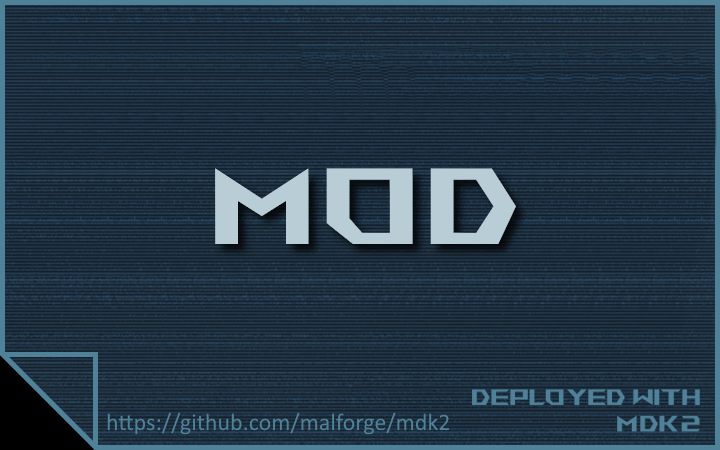
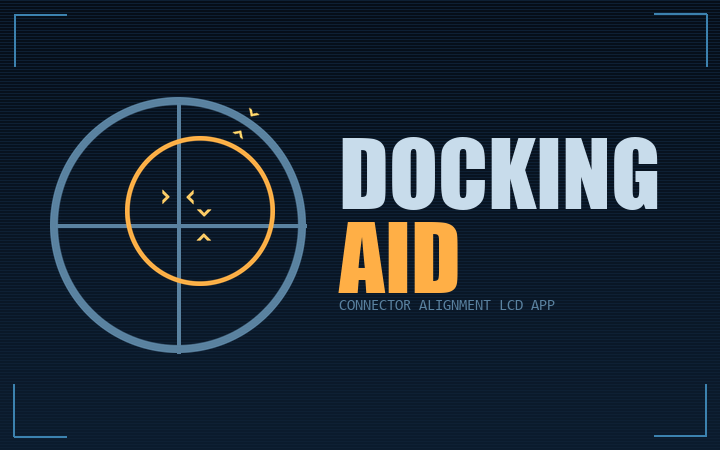
Workshop thumb: HUD-style cover using the actual SE sprites
Composites Circle_Hollow.dds (=CircleHollow) and ArrowSingle.dds
(=AH_BoreSight) — the real sprites the LCD app draws with — over a
navy gradient with corner brackets and faint scanlines. Tints by
reusing each sprite's alpha with a solid colour, which matches the
result of SE's premultiplied draw under standard alpha blending.

Chevrons align by their content bbox (not the sprite box) so the
~2px off-centre layout of ArrowSingle doesn't drift each rotated half
of a pair off its rail. Generator script committed alongside so the
art is reproducible and tweakable.

diff --git a/scripts/gen_thumb.py b/scripts/gen_thumb.py
@@ -1,0 +1,204 @@
+"""Generate thumb.png for Mal.DockingAid mod.
+
+Uses the actual SE sprite assets (Circle_Hollow.dds and ArrowSingle.dds —
+the same `CircleHollow` and `AH_BoreSight` textures the LCD app draws with)
+so the thumb is recognisably the indicator rather than a hand-drawn lookalike.
+
+SE sprites are premultiplied-alpha and white-on-transparent. We tint by
+substituting a solid colour for RGB and reusing the sprite's alpha, then
+alpha-composite with standard blending — algebraically equivalent to the
+game's premultiplied draw (`color·α + dst·(1−α)`) for this case.
+"""
+
+from __future__ import annotations
+
+import math
+from pathlib import Path
+from PIL import Image, ImageDraw, ImageFont
+
+W, H = 720, 450
+OUT = Path(__file__).parent.parent / "Mal.DockingAid" / "thumb.png"
+
+SE_TEXTURES = Path(r"E:/Steam/steamapps/common/SpaceEngineers/Content/Textures")
+CIRCLE_HOLLOW_DDS = SE_TEXTURES / "Sprites" / "Circle_Hollow.dds"
+ARROW_SINGLE_DDS  = SE_TEXTURES / "GUI" / "Icons" / "buttons" / "ArrowSingle.dds"
+
+# SE LCD palette
+BG_TOP     = (6, 14, 24)
+BG_BOT     = (12, 28, 46)
+SCANLINE   = (14, 32, 52)
+BRACKET    = (60, 130, 175)
+CHROME     = (90, 130, 160)
+FOREGROUND = (200, 220, 235)
+ACCENT     = (255, 175, 70)   # amber, SE LCD orange
+ACTIVE     = (255, 200, 100)  # lit amber for indicator notches
+
+# ---------------------------------------------------------------------------
+# Helpers
+
+def gradient_bg(im: Image.Image, top, bot):
+    """Vertical linear gradient."""
+    px = im.load()
+    h = im.height
+    for y in range(h):
+        t = y / (h - 1)
+        r = int(top[0] + (bot[0] - top[0]) * t)
+        g = int(top[1] + (bot[1] - top[1]) * t)
+        b = int(top[2] + (bot[2] - top[2]) * t)
+        for x in range(im.width):
+            px[x, y] = (r, g, b)
+
+
+def scanlines(draw, im, color, step=3):
+    for y in range(0, im.height, step):
+        draw.line([(0, y), (im.width, y)], fill=color, width=1)
+
+
+def corner_brackets(draw, im, color, length=46, weight=2, margin=14):
+    w, h = im.width, im.height
+    for cx, cy, dx, dy in [
+        (margin,    margin,    +1, +1),  # TL
+        (w-margin,  margin,    -1, +1),  # TR
+        (margin,    h-margin,  +1, -1),  # BL
+        (w-margin,  h-margin,  -1, -1),  # BR
+    ]:
+        draw.line([(cx, cy), (cx + dx * length, cy)], fill=color, width=weight)
+        draw.line([(cx, cy), (cx, cy + dy * length)], fill=color, width=weight)
+
+
+def load_font(name, size):
+    return ImageFont.truetype(f"C:/Windows/Fonts/{name}", size)
+
+
+def tint(sprite_rgba, color):
+    """Tint an SE sprite (white on premultiplied alpha) with `color` (r,g,b).
+
+    Replaces RGB with the solid tint and reuses the sprite's alpha — produces
+    the same composite result as SE's premultiplied draw when paired with
+    standard alpha_composite.
+    """
+    out = Image.new("RGBA", sprite_rgba.size, color + (0,))
+    out.putalpha(sprite_rgba.split()[3])
+    return out
+
+
+def paste_sprite(target, sprite, cx, cy, size, rotation_deg=0, color=(255, 255, 255)):
+    """Tint, resize, rotate, and alpha-composite a sprite onto target.
+
+    `cx, cy` aligns the sprite's CONTENT bounding box centre (not the sprite
+    box centre) with the target point. ArrowSingle's chevron sits ~2px off-
+    centre in its 64×64 box; using the bbox keeps a rotated > and < pair
+    properly straddling their rail instead of inheriting that asymmetry.
+    """
+    s = tint(sprite, color)
+    if size != s.size[0]:
+        s = s.resize((size, size), Image.LANCZOS)
+    if rotation_deg:
+        s = s.rotate(rotation_deg, resample=Image.BICUBIC, expand=True)
+    bbox = s.split()[3].getbbox()
+    if bbox is None:
+        ccx, ccy = s.size[0] / 2, s.size[1] / 2
+    else:
+        ccx = (bbox[0] + bbox[2]) / 2
+        ccy = (bbox[1] + bbox[3]) / 2
+    x = int(round(cx - ccx))
+    y = int(round(cy - ccy))
+    target.alpha_composite(s, (x, y))
+
+
+def paste_ellipse(target, sprite, cx, cy, w, h, color=(255, 255, 255)):
+    """Stretch the (square) CircleHollow sprite into an ellipse."""
+    s = tint(sprite, color)
+    s = s.resize((w, h), Image.LANCZOS)
+    x = int(round(cx - w / 2))
+    y = int(round(cy - h / 2))
+    target.alpha_composite(s, (x, y))
+
+
+# ---------------------------------------------------------------------------
+# Compose
+
+circle_hollow = Image.open(CIRCLE_HOLLOW_DDS).convert("RGBA")
+arrow_single  = Image.open(ARROW_SINGLE_DDS).convert("RGBA")
+
+base = Image.new("RGBA", (W, H), (0, 0, 0, 255))
+gradient_bg(base, BG_TOP, BG_BOT)
+bdraw = ImageDraw.Draw(base)
+scanlines(bdraw, base, SCANLINE, step=3)
+corner_brackets(bdraw, base, BRACKET, length=52, weight=2, margin=14)
+
+# Indicator block (left-center)
+cx, cy = 178, 225
+R = 128                 # reticle pixel radius (half the sprite edge)
+RAIL_W = 3              # rail thickness; SE uses ~2% of reticle radius
+CHEV_PX = 28            # chevron sprite size on the screen
+
+# Cross rails — SE draws these as SquareSimple rectangles tinted by railColor.
+# We just draw rectangles directly (same visual result, no sprite needed).
+bdraw.rectangle([cx - R, cy - RAIL_W // 2, cx + R, cy + RAIL_W // 2 + (RAIL_W % 2)],
+                fill=CHROME)
+bdraw.rectangle([cx - RAIL_W // 2, cy - R, cx + RAIL_W // 2 + (RAIL_W % 2), cy + R],
+                fill=CHROME)
+
+# Reticle — the actual CircleHollow sprite, tinted chrome (matching the LCD app
+# now that DrawReticle uses _palette.Body).
+paste_ellipse(base, circle_hollow, cx, cy, R * 2, R * 2, color=CHROME)
+
+# Active alignment in progress.
+pitch_off_y = -28       # pitch notch above centre
+yaw_off_x   = +26       # yaw notch right of centre
+gap = 12                # rail-to-chevron-centre — tightened
+
+# Sprite-based chevrons. ArrowSingle is a ">" pointing right by default; the
+# LCD app rotates by (angle ± π/2) for placement on the cross / rim. PIL's
+# rotate uses CCW degrees, opposite of the LCD code's CW math convention —
+# negate to match.
+
+# Pitch notch pair (> at the left of rail pointing right; < at right pointing left)
+paste_sprite(base, arrow_single, cx - gap, cy + pitch_off_y, CHEV_PX, 0,   ACTIVE)
+paste_sprite(base, arrow_single, cx + gap, cy + pitch_off_y, CHEV_PX, 180, ACTIVE)
+
+# Yaw notch pair (v above rail pointing down; ^ below pointing up)
+paste_sprite(base, arrow_single, cx + yaw_off_x, cy - gap, CHEV_PX, -90, ACTIVE)
+paste_sprite(base, arrow_single, cx + yaw_off_x, cy + gap, CHEV_PX,  90, ACTIVE)
+
+# Roll chevron pair on the rim — slight CW from top. Both pieces shifted
+# radially inward by half a chevron height so the pair sits tucked just
+# under the rim.
+ROLL_CHEV = CHEV_PX - 4
+roll_a = math.radians(34)
+rdx, rdy = math.sin(roll_a), -math.cos(roll_a)
+shift = ROLL_CHEV // 4
+in_x,  in_y  = cx + rdx * (R - 14 - shift), cy + rdy * (R - 14 - shift)
+out_x, out_y = cx + rdx * (R + 14 - shift), cy + rdy * (R + 14 - shift)
+ang_deg = math.degrees(roll_a)
+paste_sprite(base, arrow_single, in_x,  in_y,  ROLL_CHEV, 90 - ang_deg,  ACTIVE)
+paste_sprite(base, arrow_single, out_x, out_y, ROLL_CHEV, -90 - ang_deg, ACTIVE)
+
+# Projected target ring — actual circle (not foreshortened), tint ACCENT.
+tr_cx, tr_cy = cx + 22, cy - 14
+TR_D = 150
+paste_ellipse(base, circle_hollow, tr_cx, tr_cy, TR_D, TR_D, color=ACCENT)
+
+# ---------------------------------------------------------------------------
+# Title block (right side)
+
+title = load_font("impact.ttf", 90)
+sub   = load_font("consola.ttf", 15)
+
+# Title position — pulled left by one capital-M of the title font for breathing
+# room on the right margin.
+m_bbox = bdraw.textbbox((0, 0), "M", font=title)
+m_w = m_bbox[2] - m_bbox[0]
+title_x = 392 - m_w + 12
+title_y = 118
+
+bdraw.text((title_x, title_y),       "DOCKING", font=title, fill=FOREGROUND)
+bdraw.text((title_x, title_y + 84),  "AID",     font=title, fill=ACCENT)
+
+bdraw.text((title_x, title_y + 84 + 96),
+           "CONNECTOR ALIGNMENT LCD APP",
+           font=sub, fill=CHROME)
+
+base.convert("RGB").save(OUT, "PNG")
+print(f"wrote {OUT}  ({W}x{H})")